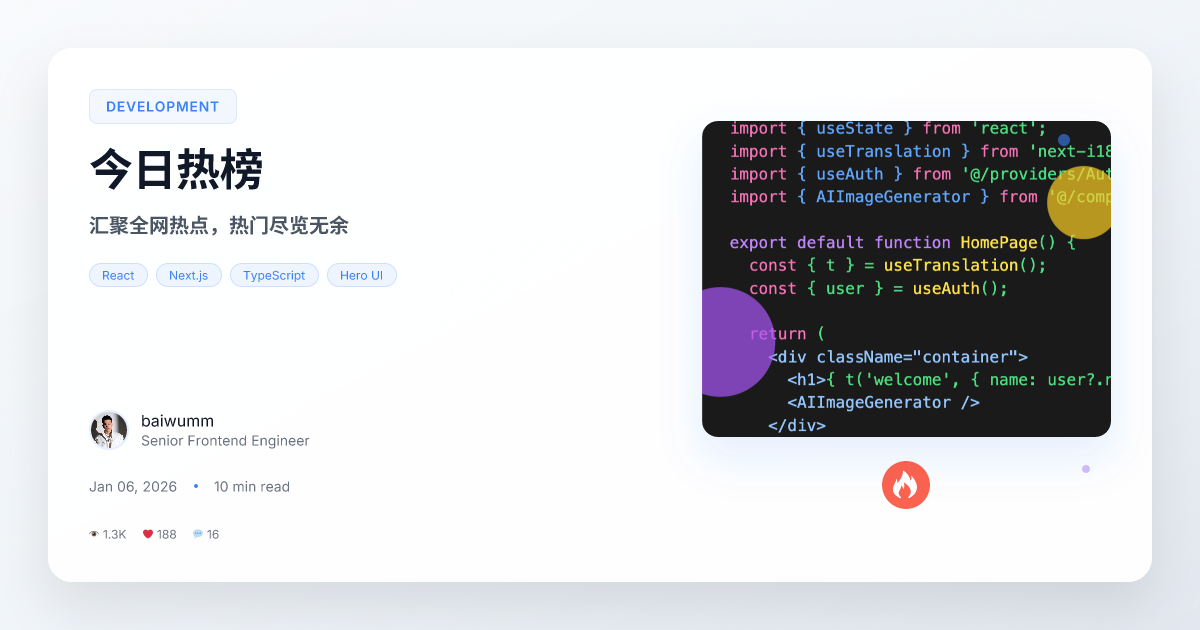
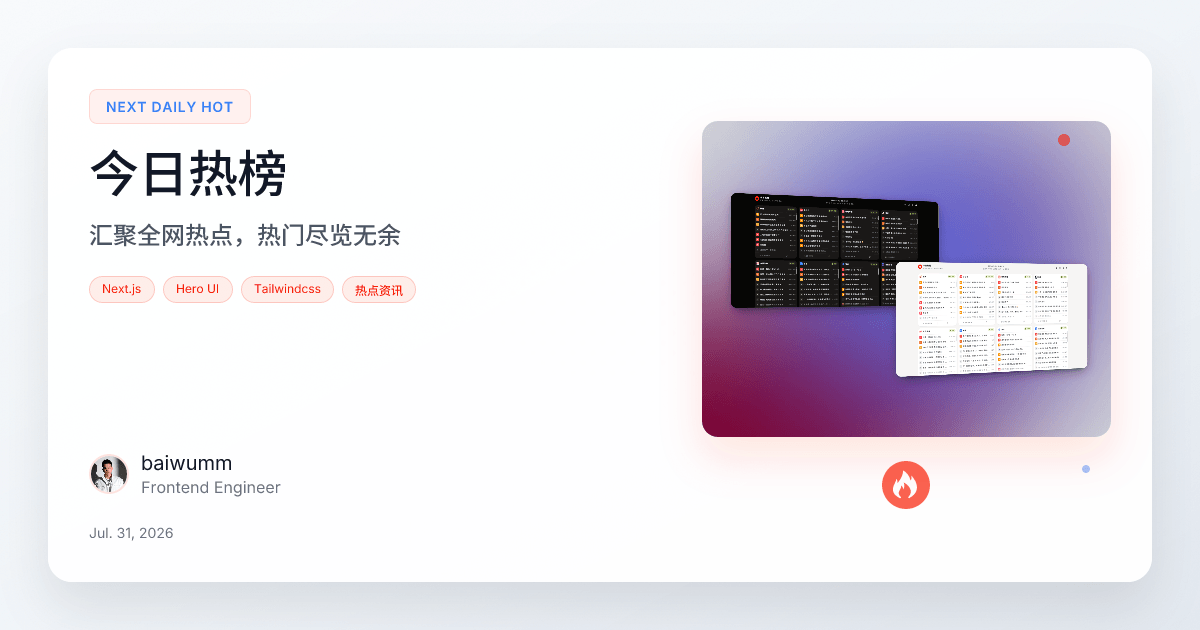
chore: 完善应用配置信息

diff --git a/src/app/layout.tsx b/src/app/layout.tsx
@@ -2,7 +2,7 @@
  * @Author: 白雾茫茫丶<baiwumm.com>
  * @Date: 2025-11-19 15:55:09
  * @LastEditors: 白雾茫茫丶<baiwumm.com>
- * @LastEditTime: 2026-07-31 17:21:01
+ * @LastEditTime: 2026-07-31 17:51:09
  * @Description: 根布局文件
  */
 
@@ -26,17 +26,17 @@ import type { Metadata } from 'next'
 export const metadata: Metadata = {
   title: `${process.env.NEXT_PUBLIC_APP_NAME} - ${process.env.NEXT_PUBLIC_APP_DESC}`, // 网站标题
   description: process.env.NEXT_PUBLIC_APP_DESC, // 网站描述
-  applicationName: pkg.name, // 应用名称
-  authors: { name: pkg.author.name, url: pkg.author.url }, // 网站作者
+  applicationName: process.env.NEXT_PUBLIC_APP_NAME, // 应用名称
+  authors: [
+    {
+      name: pkg.author.name,
+      url: pkg.author.url,
+    },
+  ],
   verification: {
     other: { 'baidu-site-verification': 'codeva-kYzuuOyYCZ', 'bytedance-verification-code': 'oPgCIrgBz/3Lhr9BoNE2' },
   }, // 网站验证
-  keywords: HOT_ITEMS.items.map(({ raw }) => `${raw.label}${raw.tip}`).join(','), // 网站关键词
-  icons: {
-    icon: '/favicon.ico',
-    shortcut: '/favicon-16x16.png',
-    apple: '/apple-touch-icon.png',
-  },
+  keywords: HOT_ITEMS.items.map(({ raw }) => `${raw.label}${raw.tip}`), // 网站关键词
   openGraph: {
     type: 'website',
     locale: 'zh_CN',
@@ -44,7 +44,15 @@ export const metadata: Metadata = {
     title: process.env.NEXT_PUBLIC_APP_NAME,
     description: process.env.NEXT_PUBLIC_APP_DESC,
     siteName: process.env.NEXT_PUBLIC_APP_NAME,
+    images: [
+      {
+        url: `${process.env.NEXT_PUBLIC_APP_URL}/og.png`,
+        width: 1200,
+        height: 630,
+      },
+    ],
   },
+
   twitter: {
     card: 'summary_large_image',
     title: process.env.NEXT_PUBLIC_APP_NAME,
@@ -60,7 +68,7 @@ export default function RootLayout({
   children: React.ReactNode
 }>) {
   return (
-    <html lang="zh" suppressHydrationWarning>
+    <html lang="zh-CN" suppressHydrationWarning>
       {/* 引入字体文件 */}
       <head>
         <meta name="version" content={pkg.version} />
